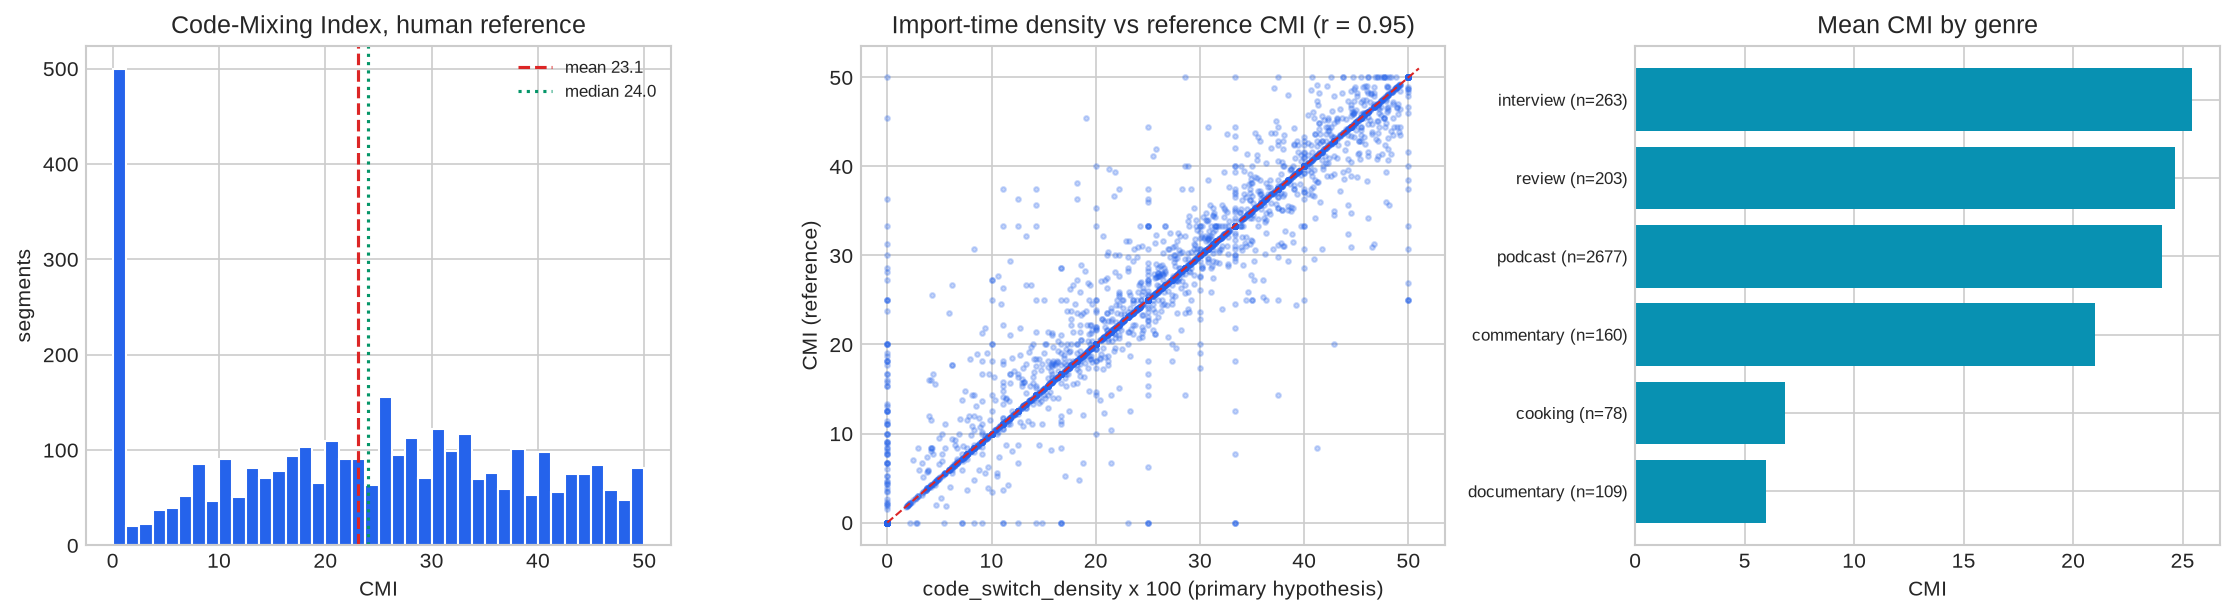
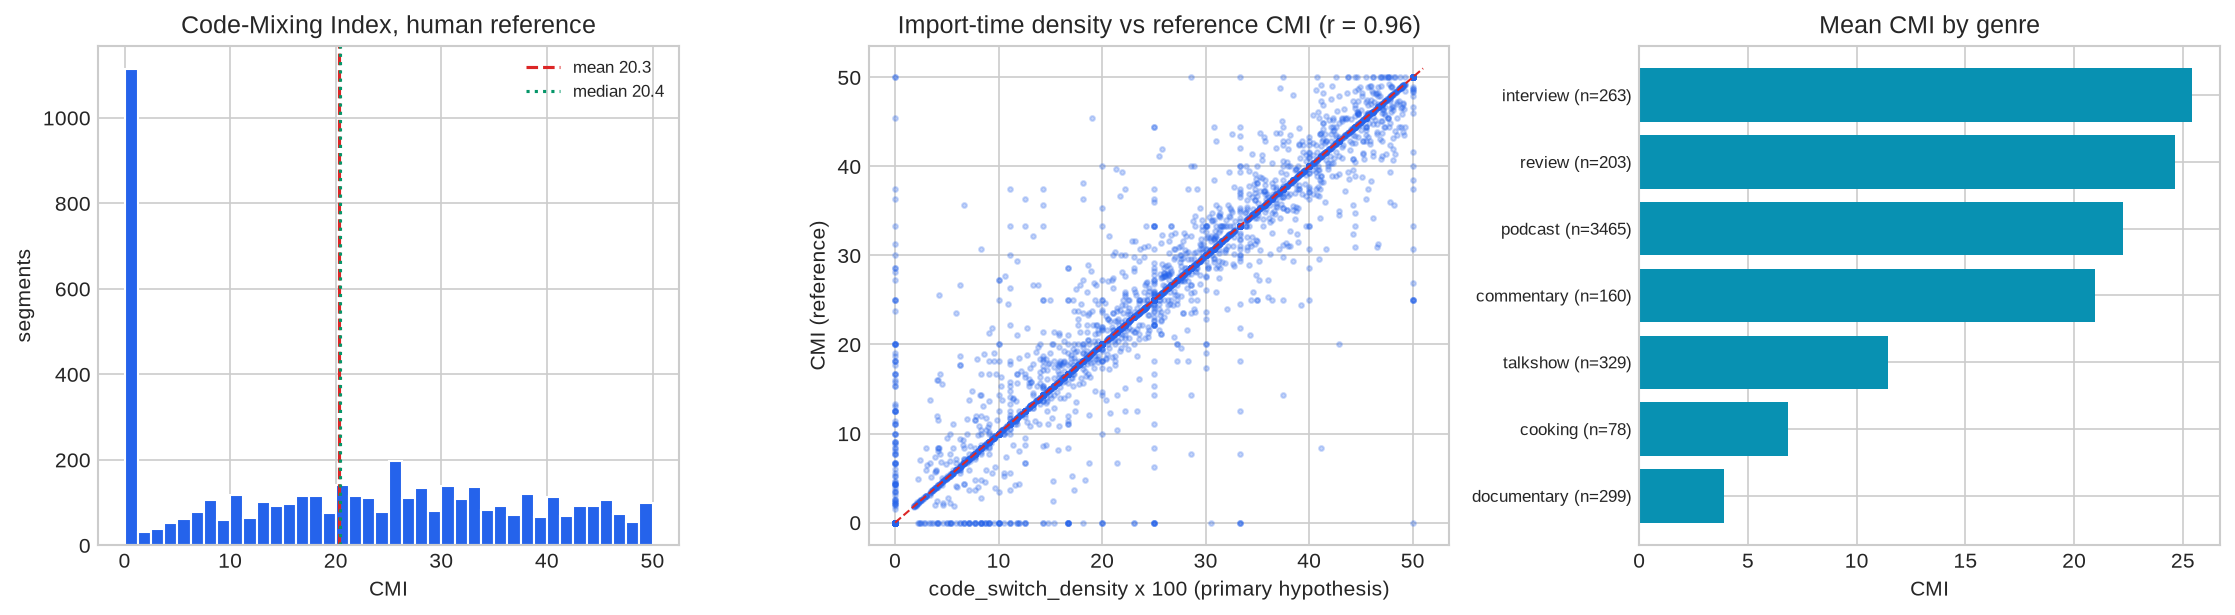
feat: add EDA findings report and update corpus visualization figures

diff --git a/reports/2026-09-08-eda-findings.md b/reports/2026-09-08-eda-findings.md
@@ -1,0 +1,262 @@
+# EDA findings — 2026-09-08
+
+Analysis of the full labeled export (`exports/analytics/analytics.jsonl`, exported
+2026-09-08T12:28:11Z at commit `30e916e`) and a re-run of `notebooks/01-EDA.ipynb`, plus
+three checks the notebook does not currently perform: an episode-clustered bootstrap, a
+language-profile breakdown per episode, and a screening-selection check.
+
+Export: analytics 4,797 rows / training 3,858 / gold 927 / error_mining 12. All 66 files
+pass sha256.
+
+## Where the corpus moved since the previous committed run
+
+| | previous run | now |
+|---|---|---|
+| labeled | 3,490 seg / 11.86 h / 21 eps | **4,797 seg / 15.49 h / 28 eps** |
+| gold | 1,171 seg / 3.98 h / 9 eps | **927 seg / 2.80 h / 5 eps** (93% of the 3 h target) |
+| verified edit rate | 26.9% | 23.9% |
+| mean CMI | 23.1 | 20.3 |
+| no-English segments | 7.4% | **16.1%** |
+
+The gold shrink is the four `demote_from_gold` runs on 2026-09-08 (show-level host overlap),
+all reasoned from coverage metadata before any WER existed. No show now sits in both pots —
+that leak is closed.
+
+## Findings
+
+### 1. One 34-segment episode decides the system ranking
+
+`pixel_11_pro_vs_galaxy_s26_ultra` is **100% English** — zero Devanagari tokens in the
+reference. mai-transcribe-2 scores 85.7% WER on it. Removing that one episode from gold:
+
+| system | gold WER as exported | gold minus pixel_11 |
+|---|---|---|
+| elevenlabs-scribe-v2 | 24.29% | 26.28% |
+| gemini-3.8-flash | 29.41% | 31.03% |
+| mai-transcribe-2 | **35.82%** | **29.80%** |
+
+mai moves from clear last to second. Corpus-wide the same holds: 30.12% → 25.88% once
+English-dominant references are dropped.
+
+### 2. mai's error is orthographic, not acoustic
+
+On the 390 segments whose reference is >=90% Latin, mai emits **78.3% Devanagari** — it
+transliterates English into Devanagari (`So throughout 2026` -> `सो थ्रूआउट 2026`). WER there
+is 80.4%, against elevenlabs 5.5% and gemini 14.0%. This is the D51 failure mode, live on a
+route with no `restore_script` applied. The current number measures mai's spelling
+convention, not its recognition.
+
+Share of each system's measured error attributable to script rather than recognition
+(8.2% of the corpus is English-dominant):
+
+| system | WER all | WER non-English | delta |
+|---|---|---|---|
+| elevenlabs-scribe-v2 | 22.94% | 23.57% | -0.63 pts |
+| gemini-3.8-flash | 28.60% | 29.64% | -1.04 pts |
+| mai-transcribe-2 | 30.12% | 25.88% | **+4.23 pts** |
+
+### 3. The CMI metric conflates two opposite populations
+
+Of the 1,231 segments at CMI <= 5: **801 are near-pure Nepali, 349 are near-pure English.**
+Section 8b's "WER by code-switching density" therefore reads mai at 54.97% in the `none`
+tier — that is the English-only material, not monolingual Nepali. The apparent
+"WER falls as code-mixing rises" pattern for mai is that artifact.
+
+### 4. The disagreement gate improved slightly and still cannot clear the bar
+
+Best signal AUC 0.665 (up from 0.652). At 80% auto-approval, 21.2% edited clips are
+admitted; a perfect ranking still admits 4.9%. The base edit rate binds, not the ordering.
+
+## Concerning trends, ranked by threat to the paper
+
+### 1. The confidence intervals are computed the wrong way, and fixing them erases the headline claim
+
+The notebook bootstraps over *segments*, but segments within an episode are not independent
+— same speaker, same mic, same acoustics. With an episode-level cluster bootstrap over the
+5 gold recordings (4,000 resamples):
+
+| system | WER | segment CI (reported) | **episode-cluster CI** |
+|---|---|---|---|
+| elevenlabs-scribe-v2 | 24.29 | [22.8, 25.7] (±2.9) | **[14.7, 31.2] (±16.5)** |
+| gemini-3.8-flash | 29.41 | [27.9, 30.8] (±2.9) | **[22.1, 36.7] (±14.6)** |
+| mai-transcribe-2 | 35.82 | [33.0, 38.8] (±5.8) | **[24.5, 61.7] (±37.2)** |
+
+The notebook's claim *"its interval does not overlap the runner-up — the ordering is
+resolved at this corpus size"* does not survive. The intervals overlap heavily. Per-episode
+WERs confirm it — elevenlabs ranges 1.8% to 36.9% across the five recordings:
+
+| episode | segs | mean CMI | elevenlabs | gemini | mai |
+|---|---|---|---|---|---|
+| best_burger_in_ktm | 50 | 31.4 | 17.8 | 39.4 | 39.8 |
+| mailo_bajeko_kalo_maya_herne_katha | 299 | 4.7 | 36.9 | 39.8 | 42.6 |
+| minister_mahabir_pun_unfiltered | 281 | 2.6 | 20.9 | 25.5 | 26.6 |
+| pixel_11_pro_vs_galaxy_s26_ultra | 34 | 0.0 | 1.8 | 4.7 | 85.7 |
+| हिमालयन (nepal_vox) | 263 | 25.2 | 24.7 | 27.1 | 22.8 |
+
+A reviewer who asks for speaker-clustered intervals will find this. It is the most likely
+reason the ASR comparison gets rejected. **A 5-recording test set cannot resolve system
+ordering.**
+
+### 2. Gold contains ~1.2 h of actually code-mixed audio
+
+Gold's 2.79 h by Latin-token share of the reference:
+
+| episode | hours | Latin share |
+|---|---|---|
+| minister_mahabir_pun | 0.730 | 1.4% |
+| mailo_bajeko | 0.724 | 3.3% |
+| pixel_11_pro | 0.184 | 100.0% |
+| हिमालयन (nepal_vox) | 0.969 | 25.0% |
+| best_burger_in_ktm | 0.186 | 44.9% |
+
+That is **1.45 h near-monolingual Nepali, 0.18 h pure English, and 1.16 h genuinely
+code-switched** — 42% of the benchmark by duration, for a paper about code-switching.
+
+### 3. One show is 63% of the training pot
+
+`sushant_pradhan`: 4 episodes, 8.02 h labeled, out of 12.69 h in train (and 44% of all
+segmented audio). Anything trained or fine-tuned on this is a model of one podcast host and
+one acoustic setup. Cross-pot leakage is closed; within-pot concentration is not.
+
+### 4. The edit-rate numbers have a selection problem
+
+Screening is applied to 31.3% of the train pot and 0% of gold, and it targets
+low-disagreement clips — so the "verified only" remainder is enriched for hard clips.
+Three estimates:
+
+- train, all rows (screened counted as accepted): **17.7%** — too low; unlistened accepts
+  are not evidence the hypothesis was right
+- train, verified only: **25.7%** — too high; the easy clips were skimmed off first
+- **gold, every clip listened to, nothing screened: 18.9%** — the only unbiased edit rate
+  in the corpus
+
+The notebook calls 23.9% "the honest figure". It is honest about screening but still biased
+upward as an estimate of the corpus edit rate. Quote 18.9% with the gold caveat, or the
+paper over-claims how often the ASR seed was wrong.
+
+### 5. Screening is wildly non-uniform per episode
+
+0% on eleven episodes; 65.6% on `nepal_has_money`, 65.2% on `nepals_most_terrifying_flood`,
+63.3% on `ep_623`, 60.2% on `ashima_poudyal`. Whatever drove that (annotator fatigue,
+session ordering) is an uncontrolled variable inside the corpus.
+
+### 6. The corpus is drifting monolingual
+
+No-English segments went 7.4% -> 16.1% and mean CMI 23.1 -> 20.3 in one ingest round.
+Annotation budget is being spent on material the paper is not about.
+
+### Smaller items
+
+- `nepal_lead_tv` has 336 segments / 0.86 h and is still `pot=unassigned`.
+- `notes` and `script_conflict_rate` are 100% null across the export.
+
+## What to acquire next
+
+Binding constraints: gold can only grow from **new** episodes of **shows not already in
+train** (D63 rule 3), and an episode holding any screened label is excluded from gold
+selection (D65). So the list is about *new shows*, not more hours.
+
+**Highest priority — gold breadth.** Roughly 10–15 gold episodes from 10–15 distinct shows,
+to get episode-clustered intervals narrow enough to separate systems. Episode count matters
+more than hours: 15 x 12-minute videos beats 3 x 1-hour ones. Annotate fully verified,
+never screened.
+
+**Target profile:**
+
+- **Genre:** anything but podcast. Podcast is 11.25 h of 15.49 h. Interview, commentary,
+  review, documentary, talkshow and cooking are all under the 1 h floor; vlogs, news
+  bulletins and street interviews are absent entirely.
+- **Latin share 20–50%** — the `हिमालयन` / `best_burger` / `claude_for_beginners` band.
+  Skip pure-Nepali documentary and political monologue (1.45 h already in gold), and skip
+  English-only tech reviews — they teach nothing about code-switching and actively corrupt
+  the ASR comparison (finding 1).
+- **Speakers:** female is 1.75 h of 15.49 h (11%) across 8 episodes. Under-20, 60–79 and
+  80+ are one episode each. Female-hosted lifestyle, beauty, food and student content covers
+  gender, age and the thin `lifestyle_relationships` / `health_wellness` /
+  `entertainment_media` topics at once.
+- **Hard rule:** one episode per show until there are ~25 shows. No more
+  `sushant_pradhan`, `a_pause_in_time`, or `gadgetbyte_nepali`.
+
+**Highest-value single acquisition:** a female-hosted, non-podcast, 20–50% Latin episode
+from a show never ingested, 10–20 minutes, fully verified into gold. That moves gold episode
+count, gender, genre, topic and code-mixing density at once.
+
+### 5. mai's orthography can be scored around, read-only (section 8d)
+
+`script_restore.py` is an LLM rewrite — a call per segment, `llm_requests` rows, real money — so
+it cannot run from a notebook. A deterministic alternative does the same job at analysis time
+without touching the database or the export.
+
+Align each hypothesis to the reference with the same edit script the WER already uses, then take
+every **substitution** where one side is Devanagari and the other Latin. Romanize the Devanagari,
+reduce both sides to a coarse consonant skeleton (Nepali writes English `v`/`w` as `भ`, `f` as
+`फ`, `z` as `ज`, so those classes merge) and, if they are close enough, count the substitution as
+the same word in the other script rather than a recognition error.
+
+Corpus-wide, seed-excluded:
+
+| system | raw WER | script-folded | oracle floor | fold moves it |
+|---|---|---|---|---|
+| elevenlabs-scribe-v2 | 22.94% | 21.67% | 20.74% | 1.27 |
+| gemini-3.8-flash | 28.60% | 25.99% | 24.33% | 2.61 |
+| mai-transcribe-2 | **30.12%** | **24.69%** | 20.53% | **5.43** |
+
+mai moves from third to second. On English-dominant references it goes 79.98% → 42.88%, with an
+oracle floor of 7.32%.
+
+Three guards keep this from being a thumb on the scale:
+
+- **It is applied identically to all three systems.** The two that do not transliterate move 1.27
+  and 2.61 points; mai moves 5.43. A general WER discount would move all three equally.
+- **The threshold is swept, not chosen.** The notebook prints folded WER at 0.0 / 0.25 / 0.34 /
+  0.5 / 0.6 and plots the curve against each system's oracle floor, so no single setting is
+  load-bearing.
+- **The matcher is conservative.** It still rejects `the`/`द`, `of`/`ऑफ`, `they`/`दे`, `now`/`नाउ`
+  — all real matches — so the folded column *overstates* the error a perfect restoration would
+  leave. The truth is between the folded number and the oracle floor. The notebook prints the
+  accepted and rejected pairs so a reader can audit them.
+
+The one arguable acceptance is `and`/`अनि`: mai wrote the Nepali word, which is a translation
+rather than a transliteration. It is 22 of 3,346 accepted pairs.
+
+**Raw WER stays the headline number.** Anything consuming these transcripts receives the
+Devanagari, so the raw figure is the one that describes the artifact; the folded figure describes
+the recogniser. Which one belongs in the paper depends on which claim is being made — "this
+system is a good Nepali-English recogniser" is the folded number, "this system produces usable
+code-switched transcripts" is the raw one.
+
+## Repository changes
+
+Applied to `notebooks/01-EDA.ipynb` (re-run clean, 37 cells, no errors):
+
+1. **Episode-clustered bootstrap** beside the segment-level one in section 8a. Both intervals
+   are reported and plotted; the verdict on whether the ordering is resolved now reads the
+   clustered one, and the notebook warns when gold holds fewer than 10 recordings. Section 8a
+   also gained a per-episode gold WER table showing the between-recording spread the cluster
+   interval is reading. The point estimate is now the actual micro-averaged WER rather than
+   the mean of the bootstrap draws.
+2. **The monolingual bucket is split** in section 8b: `monolingual Nepali` and
+   `monolingual English` replace the single `none (0-5)` tier, with a `latin %` column, and
+   section 6 reports the no-Nepali share alongside the no-English one.
+3. **New section 8c, "Is it recognition error, or is it the wrong script?"** — scores every
+   system with English-dominant references dropped, reports each system's Devanagari share of
+   its own output on that material, and tests whether the gold ordering survives. It reports
+   `mai-transcribe-2 ... 79% Devanagari ... dropping that material CHANGES the gold ordering`.
+4. **New section 8d, "Scoring the words instead of the spelling"** — the deterministic
+   script fold described above, with the control, the threshold sweep, an audit sample of
+   accepted and rejected pairs, and `figures/eda_05b_script_folding.png`.
+5. The summary in section 12 now quotes episode-clustered intervals and prints a
+   `SCRIPT, NOT RECOGNITION` block, with the folded range, whenever a system moves by more
+   than a point.
+
+Still outstanding, outside the notebook:
+
+- Decide whether `restore_script` should be applied to the `mai-transcribe-2` route at ingest.
+  Section 8d scores around the problem read-only; it does not change what the export contains,
+  and a downstream consumer of these transcripts still receives Devanagari English.
+- Assign a pot to `nepal_lead_tv` (336 segments, 0.86 h, still `unassigned`).
+- Decide whether `pixel_11_pro_vs_galaxy_s26_ultra` — 100% English — belongs in a
+  Nepali-English code-switching benchmark at all.
+
+Working scripts for the original ad-hoc analyses are in the session scratchpad
+(`deep.py`, `deep2.py`, `deep3.py`); their substance is now in the notebook.
